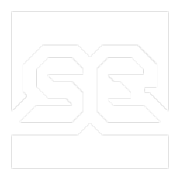
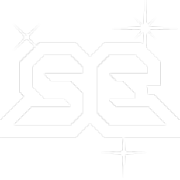
Deploying to gh-pages from @ marpor/SpaceEvader@1fa6fe352d8e6f123f5df523b941ce4391c73a56 🚀

diff --git a/index.html b/index.html
@@ -140,7 +140,7 @@
 	<script type='text/javascript' src='index.js'></script>
 	<script type='text/javascript'>//<![CDATA[
 
-		const GODOT_CONFIG = {"args":[],"canvasResizePolicy":2,"executable":"index","experimentalVK":false,"fileSizes":{"index.pck":21097008,"index.wasm":13793958},"focusCanvas":true,"gdnativeLibs":[],"serviceWorker":"index.service.worker.js"};
+		const GODOT_CONFIG = {"args":[],"canvasResizePolicy":2,"executable":"index","experimentalVK":false,"fileSizes":{"index.pck":21100048,"index.wasm":13793958},"focusCanvas":true,"gdnativeLibs":[],"serviceWorker":"index.service.worker.js"};
 		var engine = new Engine(GODOT_CONFIG);
 
 		(function() {

diff --git a/index.service.worker.js b/index.service.worker.js
@@ -3,7 +3,7 @@
 // that they need an Internet connection to run the project if desired.
 // Incrementing CACHE_VERSION will kick off the install event and force
 // previously cached resources to be updated from the network.
-const CACHE_VERSION = "1729143736|31698193";
+const CACHE_VERSION = "1729179703|31500450";
 const CACHE_PREFIX = "SpaceEvader-sw-cache-";
 const CACHE_NAME = CACHE_PREFIX + CACHE_VERSION;
 const OFFLINE_URL = "index.offline.html";